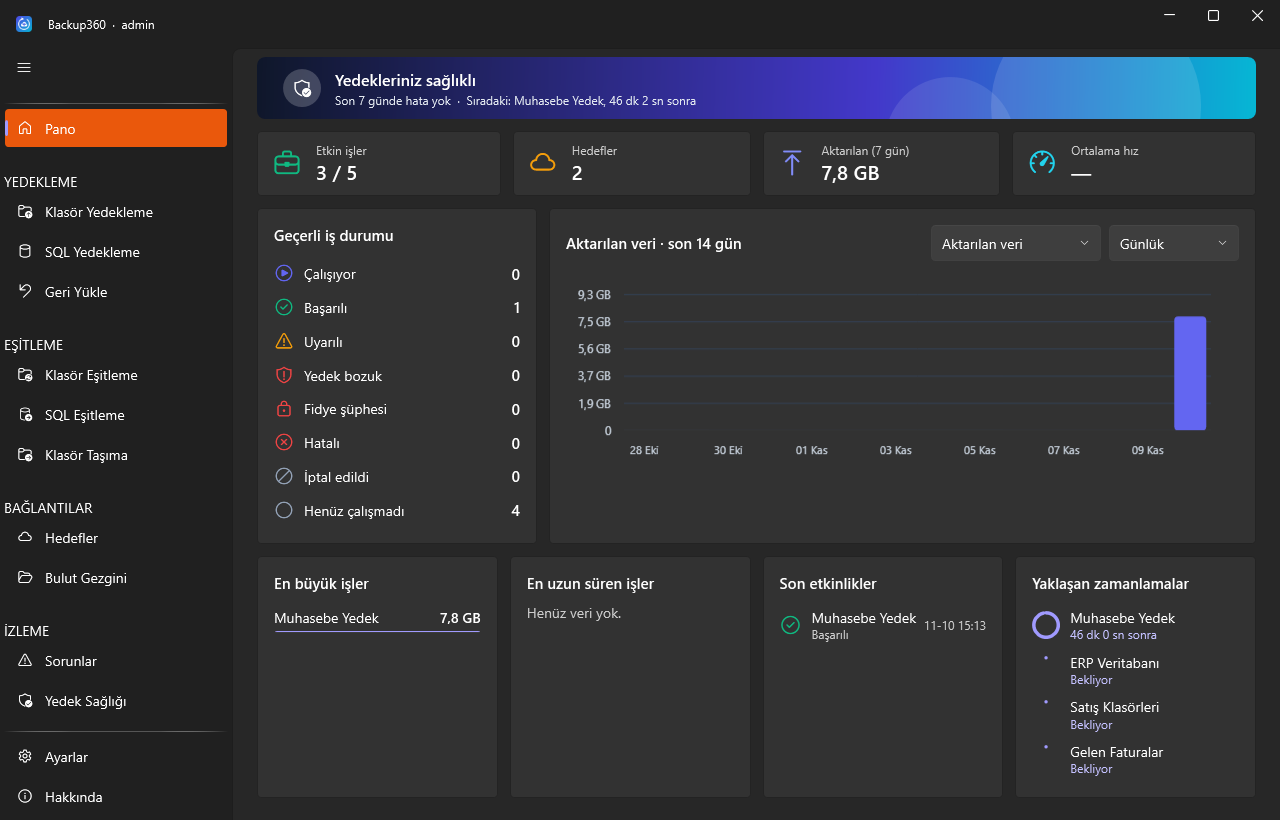
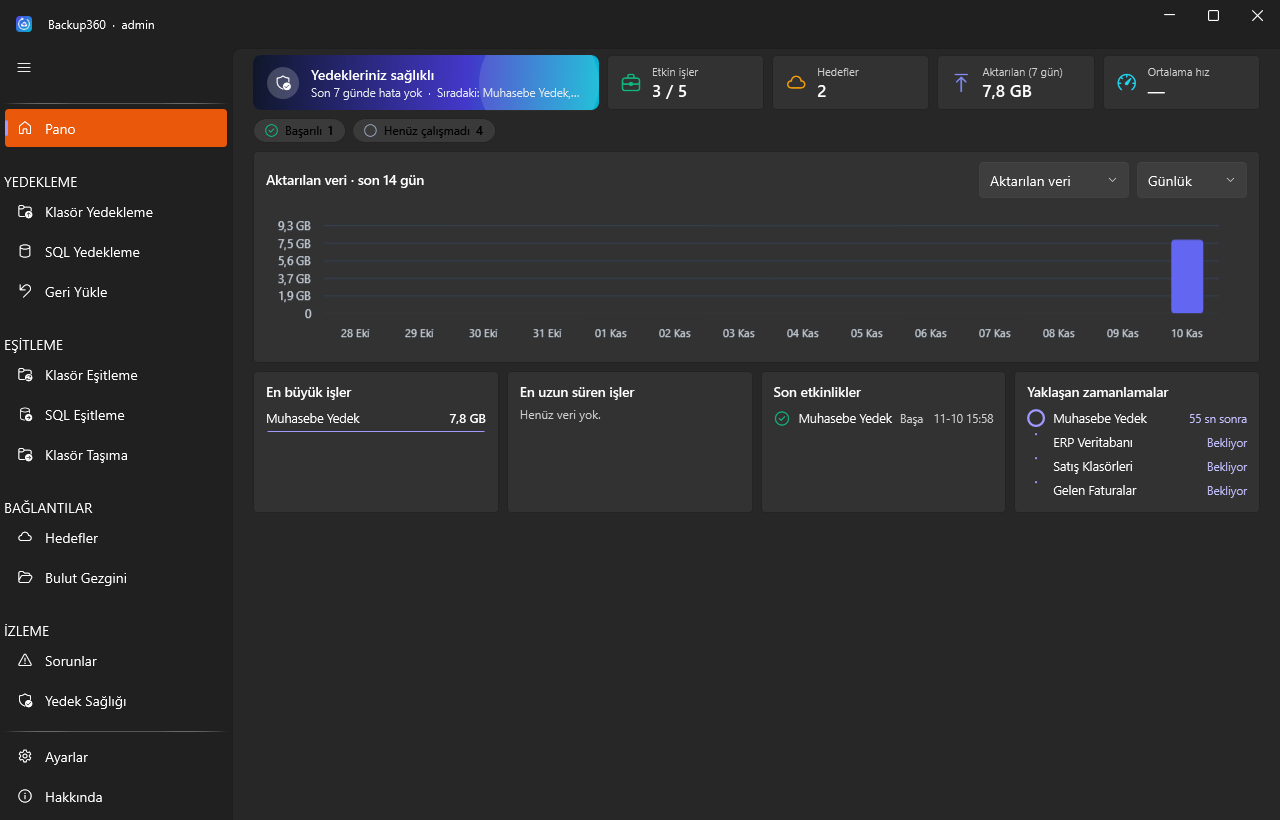
Pano yeniden düzenlendi: tek satır üst şerit, durum etiketleri, sıkı düzen

diff --git a/src/Backup360/UI/DashboardPage.xaml b/src/Backup360/UI/DashboardPage.xaml
@@ -5,202 +5,192 @@
       xmlns:lvc="clr-namespace:LiveChartsCore.SkiaSharpView.WPF;assembly=LiveChartsCore.SkiaSharpView.WPF">
     <Page.Resources>
         <DataTemplate x:Key="TopRow">
-            <StackPanel Margin="0,5">
+            <StackPanel Margin="0,3">
                 <Grid>
-                    <TextBlock Text="{Binding Name}" TextTrimming="CharacterEllipsis" Margin="0,0,70,0" />
-                    <TextBlock Text="{Binding Value}" FontWeight="SemiBold" HorizontalAlignment="Right" />
+                    <TextBlock Text="{Binding Name}" FontSize="12.5" TextTrimming="CharacterEllipsis" Margin="0,0,70,0" />
+                    <TextBlock Text="{Binding Value}" FontSize="12.5" FontWeight="SemiBold" HorizontalAlignment="Right" />
                 </Grid>
                 <ProgressBar Height="3" Maximum="100" Value="{Binding Ratio, Mode=OneWay}" Margin="0,4,0,0" />
             </StackPanel>
         </DataTemplate>
     </Page.Resources>
-    <StackPanel Margin="24,8,24,16">
-        <Border x:Name="HeroBanner" CornerRadius="8" Height="62" ClipToBounds="True">
-            <Border.Background>
-                <LinearGradientBrush StartPoint="0,0" EndPoint="1,0.4">
-                    <GradientStop Color="#0F172A" Offset="0" />
-                    <GradientStop Color="#4338CA" Offset="0.62" />
-                    <GradientStop Color="#06B6D4" Offset="1" />
-                </LinearGradientBrush>
-            </Border.Background>
-            <Grid>
-                <Canvas HorizontalAlignment="Right" Width="420">
-                    <Ellipse Width="210" Height="210" Fill="#1FFFFFFF" Canvas.Left="150" Canvas.Top="-70">
-                        <Ellipse.RenderTransform>
-                            <TranslateTransform />
-                        </Ellipse.RenderTransform>
-                        <Ellipse.Triggers>
-                            <EventTrigger RoutedEvent="Loaded">
-                                <BeginStoryboard>
-                                    <Storyboard RepeatBehavior="Forever" AutoReverse="True">
-                                        <DoubleAnimation Storyboard.TargetProperty="(UIElement.RenderTransform).(TranslateTransform.X)" From="-50" To="60" Duration="0:0:7" />
-                                        <DoubleAnimation Storyboard.TargetProperty="(UIElement.RenderTransform).(TranslateTransform.Y)" From="-10" To="24" Duration="0:0:5" />
-                                    </Storyboard>
-                                </BeginStoryboard>
-                            </EventTrigger>
-                        </Ellipse.Triggers>
-                    </Ellipse>
-                    <Ellipse Width="130" Height="130" Fill="#1AFFFFFF" Canvas.Left="40" Canvas.Top="20">
-                        <Ellipse.RenderTransform>
-                            <TranslateTransform />
-                        </Ellipse.RenderTransform>
-                        <Ellipse.Triggers>
-                            <EventTrigger RoutedEvent="Loaded">
-                                <BeginStoryboard>
-                                    <Storyboard RepeatBehavior="Forever" AutoReverse="True">
-                                        <DoubleAnimation Storyboard.TargetProperty="(UIElement.RenderTransform).(TranslateTransform.X)" From="40" To="-40" Duration="0:0:9" />
-                                    </Storyboard>
-                                </BeginStoryboard>
-                            </EventTrigger>
-                        </Ellipse.Triggers>
-                    </Ellipse>
-                </Canvas>
-                <StackPanel Orientation="Horizontal" VerticalAlignment="Center" Margin="26,0">
-                    <Grid Width="38" Height="38" Margin="0,0,14,0">
-                        <Ellipse Fill="#33FFFFFF" />
-                        <ui:SymbolIcon x:Name="HeroIcon" Symbol="ShieldCheckmark24" FontSize="20" Foreground="White" HorizontalAlignment="Center" VerticalAlignment="Center" />
-                    </Grid>
-                    <StackPanel VerticalAlignment="Center">
-                        <TextBlock x:Name="HeroTitle" Text="Hoş geldiniz" FontSize="16" FontWeight="SemiBold" Foreground="White" />
-                        <TextBlock x:Name="HeroSub" Foreground="#E2E8F0" FontSize="12" Margin="0,2,0,0" />
-                    </StackPanel>
-                </StackPanel>
-            </Grid>
-        </Border>
-
-        <UniformGrid Columns="4" Margin="0,12,0,0">
-            <ui:Card Margin="0,0,6,0" Padding="14,10">
-                <StackPanel Orientation="Horizontal">
-                    <ui:SymbolIcon Symbol="Briefcase24" FontSize="30" Foreground="#10B981" Margin="0,0,14,0" />
-                    <StackPanel><TextBlock Text="Etkin işler" Style="{StaticResource Muted}" FontSize="12" /><TextBlock x:Name="StatOk" Text="—" FontSize="20" FontWeight="SemiBold" /></StackPanel>
-                </StackPanel>
-            </ui:Card>
-            <ui:Card Margin="6,0" Padding="14,10">
-                <StackPanel Orientation="Horizontal">
-                    <ui:SymbolIcon Symbol="Cloud24" FontSize="30" Foreground="#F59E0B" Margin="0,0,14,0" />
-                    <StackPanel><TextBlock Text="Hedefler" Style="{StaticResource Muted}" FontSize="12" /><TextBlock x:Name="StatBad" Text="—" FontSize="20" FontWeight="SemiBold" /></StackPanel>
-                </StackPanel>
-            </ui:Card>
-            <ui:Card Margin="6,0" Padding="14,10">
-                <StackPanel Orientation="Horizontal">
-                    <ui:SymbolIcon Symbol="ArrowUpload24" FontSize="30" Foreground="#818CF8" Margin="0,0,14,0" />
-                    <StackPanel><TextBlock Text="Aktarılan (7 gün)" Style="{StaticResource Muted}" FontSize="12" /><TextBlock x:Name="StatSent" Text="—" FontSize="20" FontWeight="SemiBold" /></StackPanel>
-                </StackPanel>
-            </ui:Card>
-            <ui:Card Margin="6,0,0,0" Padding="14,10">
-                <StackPanel Orientation="Horizontal">
-                    <ui:SymbolIcon Symbol="TopSpeed24" FontSize="30" Foreground="#22D3EE" Margin="0,0,14,0" />
-                    <StackPanel><TextBlock Text="Ortalama hız" Style="{StaticResource Muted}" FontSize="12" /><TextBlock x:Name="StatSpeed" Text="—" FontSize="20" FontWeight="SemiBold" /></StackPanel>
-                </StackPanel>
-            </ui:Card>
-        </UniformGrid>
-
-        <ui:InfoBar x:Name="ProblemBar" IsOpen="False" IsClosable="False" Severity="Warning" Margin="0,10,0,0" />
-        <TextBlock x:Name="LiveTitle" Text="Canlı aktarımlar" Style="{StaticResource Section}" Visibility="Collapsed" Margin="0,10,0,6" />
-        <UniformGrid x:Name="LivePanel" Columns="1" Margin="0,0,-8,0" />
-
-        <Grid Margin="0,12,0,0">
+    <StackPanel Margin="20,6,20,12">
+        <!-- Üst şerit: genel durum ve dört gösterge tek satırda -->
+        <Grid>
             <Grid.ColumnDefinitions>
-                <ColumnDefinition Width="280" />
-                <ColumnDefinition Width="12" />
-                <ColumnDefinition Width="*" />
+                <ColumnDefinition Width="2.2*" /><ColumnDefinition Width="8" /><ColumnDefinition Width="*" /><ColumnDefinition Width="8" /><ColumnDefinition Width="*" /><ColumnDefinition Width="8" /><ColumnDefinition Width="*" /><ColumnDefinition Width="8" /><ColumnDefinition Width="*" />
             </Grid.ColumnDefinitions>
-            <ui:Card Padding="16" VerticalAlignment="Stretch" VerticalContentAlignment="Top">
-                <StackPanel>
-                    <TextBlock Text="Geçerli iş durumu" FontSize="15" FontWeight="SemiBold" Margin="0,0,0,12" />
-                    <ItemsControl x:Name="StatusList">
-                        <ItemsControl.ItemTemplate>
-                            <DataTemplate>
-                                <Grid Margin="0,6">
-                                    <StackPanel Orientation="Horizontal">
-                                        <ui:SymbolIcon Symbol="{Binding Icon}" Foreground="{Binding Brush}" FontSize="20" Margin="0,0,10,0" />
-                                        <TextBlock Text="{Binding Label}" VerticalAlignment="Center" />
-                                    </StackPanel>
-                                    <TextBlock Text="{Binding Count}" FontWeight="SemiBold" FontSize="15" HorizontalAlignment="Right" VerticalAlignment="Center" />
-                                </Grid>
-                            </DataTemplate>
-                        </ItemsControl.ItemTemplate>
-                    </ItemsControl>
-                </StackPanel>
-            </ui:Card>
-            <ui:Card Grid.Column="2" Padding="16" VerticalAlignment="Stretch" VerticalContentAlignment="Top">
-                <StackPanel>
-                    <Grid>
-                        <TextBlock x:Name="ChartTitle" FontSize="15" FontWeight="SemiBold" VerticalAlignment="Center" />
-                        <StackPanel Orientation="Horizontal" HorizontalAlignment="Right">
-                            <ComboBox x:Name="MetricBox" Width="170" Margin="0,0,8,0" SelectionChanged="Chart_Changed">
-                                <ComboBoxItem Content="Aktarılan veri" IsSelected="True" />
-                                <ComboBoxItem Content="Çalışma sayısı" />
-                            </ComboBox>
-                            <ComboBox x:Name="RangeBox" Width="130" SelectionChanged="Chart_Changed">
-                                <ComboBoxItem Content="Günlük" IsSelected="True" />
-                                <ComboBoxItem Content="Haftalık" />
-                                <ComboBoxItem Content="Aylık" />
-                            </ComboBox>
+            <Border x:Name="HeroBanner" CornerRadius="8" ClipToBounds="True" MinHeight="54">
+                <Border.Background>
+                    <LinearGradientBrush StartPoint="0,0" EndPoint="1,0.4">
+                        <GradientStop Color="#0F172A" Offset="0" />
+                        <GradientStop Color="#4338CA" Offset="0.62" />
+                        <GradientStop Color="#06B6D4" Offset="1" />
+                    </LinearGradientBrush>
+                </Border.Background>
+                <Grid>
+                    <Ellipse Width="120" Height="120" Fill="#1FFFFFFF" HorizontalAlignment="Right" VerticalAlignment="Center" Margin="0,-40,-20,-40">
+                        <Ellipse.RenderTransform>
+                            <TranslateTransform />
+                        </Ellipse.RenderTransform>
+                        <Ellipse.Triggers>
+                            <EventTrigger RoutedEvent="Loaded">
+                                <BeginStoryboard>
+                                    <Storyboard RepeatBehavior="Forever" AutoReverse="True">
+                                        <DoubleAnimation Storyboard.TargetProperty="(UIElement.RenderTransform).(TranslateTransform.X)" From="-60" To="20" Duration="0:0:7" />
+                                    </Storyboard>
+                                </BeginStoryboard>
+                            </EventTrigger>
+                        </Ellipse.Triggers>
+                    </Ellipse>
+                    <Grid Margin="14,8" VerticalAlignment="Center">
+                        <Grid.ColumnDefinitions><ColumnDefinition Width="Auto" /><ColumnDefinition Width="*" /></Grid.ColumnDefinitions>
+                        <Grid Width="32" Height="32" Margin="0,0,12,0">
+                            <Ellipse Fill="#33FFFFFF" />
+                            <ui:SymbolIcon x:Name="HeroIcon" Symbol="ShieldCheckmark24" FontSize="17" Foreground="White" HorizontalAlignment="Center" VerticalAlignment="Center" />
+                        </Grid>
+                        <StackPanel Grid.Column="1" VerticalAlignment="Center">
+                            <TextBlock x:Name="HeroTitle" Text="Hoş geldiniz" FontSize="14" FontWeight="SemiBold" Foreground="White" TextTrimming="CharacterEllipsis" />
+                            <TextBlock x:Name="HeroSub" Foreground="#E2E8F0" FontSize="11.5" Margin="0,1,0,0" TextTrimming="CharacterEllipsis" ToolTip="{Binding Text, RelativeSource={RelativeSource Self}}" />
                         </StackPanel>
                     </Grid>
-                    <lvc:CartesianChart x:Name="Chart" Background="Transparent" Height="200" Margin="0,8,0,0" />
+                </Grid>
+            </Border>
+            <ui:Card Grid.Column="2" Padding="12,8" VerticalAlignment="Stretch">
+                <StackPanel Orientation="Horizontal" VerticalAlignment="Center">
+                    <ui:SymbolIcon Symbol="Briefcase24" FontSize="22" Foreground="#10B981" Margin="0,0,10,0" />
+                    <StackPanel>
+                        <TextBlock Text="Etkin işler" Style="{StaticResource Muted}" FontSize="11" />
+                        <TextBlock x:Name="StatOk" Text="—" FontSize="17" FontWeight="SemiBold" />
+                    </StackPanel>
+                </StackPanel>
+            </ui:Card>
+            <ui:Card Grid.Column="4" Padding="12,8" VerticalAlignment="Stretch">
+                <StackPanel Orientation="Horizontal" VerticalAlignment="Center">
+                    <ui:SymbolIcon Symbol="Cloud24" FontSize="22" Foreground="#F59E0B" Margin="0,0,10,0" />
+                    <StackPanel>
+                        <TextBlock Text="Hedefler" Style="{StaticResource Muted}" FontSize="11" />
+                        <TextBlock x:Name="StatBad" Text="—" FontSize="17" FontWeight="SemiBold" />
+                    </StackPanel>
+                </StackPanel>
+            </ui:Card>
+            <ui:Card Grid.Column="6" Padding="12,8" VerticalAlignment="Stretch">
+                <StackPanel Orientation="Horizontal" VerticalAlignment="Center">
+                    <ui:SymbolIcon Symbol="ArrowUpload24" FontSize="22" Foreground="#818CF8" Margin="0,0,10,0" />
+                    <StackPanel>
+                        <TextBlock Text="Aktarılan (7 gün)" Style="{StaticResource Muted}" FontSize="11" />
+                        <TextBlock x:Name="StatSent" Text="—" FontSize="17" FontWeight="SemiBold" />
+                    </StackPanel>
+                </StackPanel>
+            </ui:Card>
+            <ui:Card Grid.Column="8" Padding="12,8" VerticalAlignment="Stretch">
+                <StackPanel Orientation="Horizontal" VerticalAlignment="Center">
+                    <ui:SymbolIcon Symbol="TopSpeed24" FontSize="22" Foreground="#22D3EE" Margin="0,0,10,0" />
+                    <StackPanel>
+                        <TextBlock Text="Ortalama hız" Style="{StaticResource Muted}" FontSize="11" />
+                        <TextBlock x:Name="StatSpeed" Text="—" FontSize="17" FontWeight="SemiBold" />
+                    </StackPanel>
                 </StackPanel>
             </ui:Card>
         </Grid>
 
-        <Grid Margin="0,12,0,0">
+        <!-- İş durumu: yalnızca sayısı sıfırdan büyük olanlar, tek satır -->
+        <ItemsControl x:Name="StatusList" Margin="0,8,0,0">
+            <ItemsControl.ItemsPanel>
+                <ItemsPanelTemplate><WrapPanel /></ItemsPanelTemplate>
+            </ItemsControl.ItemsPanel>
+            <ItemsControl.ItemTemplate>
+                <DataTemplate>
+                    <Border CornerRadius="13" Padding="10,3,12,3" Margin="0,0,6,4" Background="{DynamicResource ControlFillColorSecondaryBrush}" BorderBrush="{DynamicResource CardStrokeColorDefaultBrush}" BorderThickness="1">
+                        <StackPanel Orientation="Horizontal">
+                            <ui:SymbolIcon Symbol="{Binding Icon}" Foreground="{Binding Brush}" FontSize="15" Margin="0,0,6,0" />
+                            <TextBlock Text="{Binding Label}" FontSize="12" VerticalAlignment="Center" />
+                            <TextBlock Text="{Binding Count}" FontSize="12" FontWeight="SemiBold" Margin="6,0,0,0" VerticalAlignment="Center" />
+                        </StackPanel>
+                    </Border>
+                </DataTemplate>
+            </ItemsControl.ItemTemplate>
+        </ItemsControl>
+
+        <ui:InfoBar x:Name="ProblemBar" IsOpen="False" IsClosable="False" Severity="Warning" Margin="0,4,0,0" />
+        <TextBlock x:Name="LiveTitle" Text="Canlı aktarımlar" FontSize="13.5" FontWeight="SemiBold" Visibility="Collapsed" Margin="0,8,0,6" />
+        <UniformGrid x:Name="LivePanel" Columns="1" Margin="0,0,-8,0" />
+
+        <ui:Card Padding="12,10" Margin="0,4,0,0" VerticalContentAlignment="Top">
+            <StackPanel>
+                <Grid>
+                    <TextBlock x:Name="ChartTitle" FontSize="13.5" FontWeight="SemiBold" VerticalAlignment="Center" />
+                    <StackPanel Orientation="Horizontal" HorizontalAlignment="Right">
+                        <ComboBox x:Name="MetricBox" Width="150" Margin="0,0,8,0" SelectionChanged="Chart_Changed">
+                            <ComboBoxItem Content="Aktarılan veri" IsSelected="True" />
+                            <ComboBoxItem Content="Çalışma sayısı" />
+                        </ComboBox>
+                        <ComboBox x:Name="RangeBox" Width="110" SelectionChanged="Chart_Changed">
+                            <ComboBoxItem Content="Günlük" IsSelected="True" />
+                            <ComboBoxItem Content="Haftalık" />
+                            <ComboBoxItem Content="Aylık" />
+                        </ComboBox>
+                    </StackPanel>
+                </Grid>
+                <lvc:CartesianChart x:Name="Chart" Background="Transparent" Height="150" Margin="0,4,0,0" />
+            </StackPanel>
+        </ui:Card>
+
+        <Grid Margin="0,8,0,0">
             <Grid.ColumnDefinitions>
-                <ColumnDefinition /><ColumnDefinition Width="12" /><ColumnDefinition /><ColumnDefinition Width="12" /><ColumnDefinition /><ColumnDefinition Width="12" /><ColumnDefinition />
+                <ColumnDefinition /><ColumnDefinition Width="8" /><ColumnDefinition /><ColumnDefinition Width="8" /><ColumnDefinition /><ColumnDefinition Width="8" /><ColumnDefinition />
             </Grid.ColumnDefinitions>
-            <ui:Card Padding="16" VerticalAlignment="Stretch" VerticalContentAlignment="Top">
+            <ui:Card Grid.Column="0" Padding="12,10" VerticalAlignment="Stretch" VerticalContentAlignment="Top">
                 <StackPanel>
-                    <TextBlock Text="En büyük işler" FontSize="15" FontWeight="SemiBold" Margin="0,0,0,10" />
-                    <TextBlock x:Name="BiggestEmpty" Text="Henüz veri yok." Style="{StaticResource Muted}" />
+                    <TextBlock Text="En büyük işler" FontSize="13.5" FontWeight="SemiBold" Margin="0,0,0,6" />
+                    <TextBlock x:Name="BiggestEmpty" Text="Henüz veri yok." Style="{StaticResource Muted}" FontSize="12" />
                     <ItemsControl x:Name="Biggest" ItemTemplate="{StaticResource TopRow}" />
                 </StackPanel>
             </ui:Card>
-            <ui:Card Grid.Column="2" Padding="16" VerticalAlignment="Stretch" VerticalContentAlignment="Top">
+            <ui:Card Grid.Column="2" Padding="12,10" VerticalAlignment="Stretch" VerticalContentAlignment="Top">
                 <StackPanel>
-                    <TextBlock Text="En uzun süren işler" FontSize="15" FontWeight="SemiBold" Margin="0,0,0,10" />
-                    <TextBlock x:Name="LongestEmpty" Text="Henüz veri yok." Style="{StaticResource Muted}" />
+                    <TextBlock Text="En uzun süren işler" FontSize="13.5" FontWeight="SemiBold" Margin="0,0,0,6" />
+                    <TextBlock x:Name="LongestEmpty" Text="Henüz veri yok." Style="{StaticResource Muted}" FontSize="12" />
                     <ItemsControl x:Name="Longest" ItemTemplate="{StaticResource TopRow}" />
                 </StackPanel>
             </ui:Card>
-            <ui:Card Grid.Column="4" Padding="16" VerticalAlignment="Stretch" VerticalContentAlignment="Top">
+            <ui:Card Grid.Column="4" Padding="12,10" VerticalAlignment="Stretch" VerticalContentAlignment="Top">
                 <StackPanel>
-                    <TextBlock Text="Son etkinlikler" FontSize="15" FontWeight="SemiBold" Margin="0,0,0,10" />
-                    <TextBlock x:Name="FeedEmpty" Text="Henüz çalışma yok." Style="{StaticResource Muted}" />
+                    <TextBlock Text="Son etkinlikler" FontSize="13.5" FontWeight="SemiBold" Margin="0,0,0,6" />
+                    <TextBlock x:Name="FeedEmpty" Text="Henüz çalışma yok." Style="{StaticResource Muted}" FontSize="12" />
                     <ItemsControl x:Name="Feed">
                         <ItemsControl.ItemTemplate>
                             <DataTemplate>
-                                <Grid Margin="0,5">
+                                <Grid Margin="0,3">
                                     <Grid.ColumnDefinitions>
                                         <ColumnDefinition Width="Auto" />
                                         <ColumnDefinition Width="*" />
                                         <ColumnDefinition Width="Auto" />
                                     </Grid.ColumnDefinitions>
-                                    <ui:SymbolIcon Symbol="{Binding Icon}" Foreground="{Binding Brush}" FontSize="22" Margin="0,0,10,0" />
-                                    <StackPanel Grid.Column="1">
-                                        <TextBlock Text="{Binding Name}" TextTrimming="CharacterEllipsis" />
-                                        <TextBlock Text="{Binding Label}" FontSize="12" Style="{StaticResource Muted}" />
+                                    <ui:SymbolIcon Symbol="{Binding Icon}" Foreground="{Binding Brush}" FontSize="17" Margin="0,0,8,0" />
+                                    <StackPanel Grid.Column="1" Orientation="Horizontal" ClipToBounds="True">
+                                        <TextBlock Text="{Binding Name}" FontSize="12.5" TextTrimming="CharacterEllipsis" />
+                                        <TextBlock Text="{Binding Label}" FontSize="11.5" Style="{StaticResource Muted}" Margin="8,0,0,0" VerticalAlignment="Center" />
                                     </StackPanel>
-                                    <TextBlock Grid.Column="2" Text="{Binding When}" FontSize="12" Style="{StaticResource Muted}" VerticalAlignment="Center" />
+                                    <TextBlock Grid.Column="2" Text="{Binding When}" FontSize="11.5" Style="{StaticResource Muted}" Margin="10,0,0,0" VerticalAlignment="Center" />
                                 </Grid>
                             </DataTemplate>
                         </ItemsControl.ItemTemplate>
                     </ItemsControl>
                 </StackPanel>
             </ui:Card>
-            <ui:Card Grid.Column="6" Padding="16" VerticalAlignment="Stretch" VerticalContentAlignment="Top">
+            <ui:Card Grid.Column="6" Padding="12,10" VerticalAlignment="Stretch" VerticalContentAlignment="Top">
                 <StackPanel>
-                    <TextBlock Text="Yaklaşan zamanlamalar" FontSize="15" FontWeight="SemiBold" Margin="0,0,0,10" />
-                    <TextBlock x:Name="UpcomingEmpty" Text="Zamanlanmış iş yok." Style="{StaticResource Muted}" />
+                    <TextBlock Text="Yaklaşan zamanlamalar" FontSize="13.5" FontWeight="SemiBold" Margin="0,0,0,6" />
+                    <TextBlock x:Name="UpcomingEmpty" Text="Zamanlanmış iş yok." Style="{StaticResource Muted}" FontSize="12" />
                     <ItemsControl x:Name="Upcoming">
                         <ItemsControl.ItemTemplate>
                             <DataTemplate>
-                                <Grid Margin="0,5">
-                                    <Grid.ColumnDefinitions><ColumnDefinition Width="Auto" /><ColumnDefinition Width="*" /></Grid.ColumnDefinitions>
-                                    <ui:ProgressRing IsIndeterminate="False" Progress="{Binding Percent}" Width="28" Height="28" Margin="0,0,10,0" />
-                                    <StackPanel Grid.Column="1">
-                                        <TextBlock Text="{Binding Name}" TextTrimming="CharacterEllipsis" />
-                                        <TextBlock Text="{Binding Remaining}" FontSize="12" Foreground="{DynamicResource AccentTextFillColorPrimaryBrush}" />
-                                    </StackPanel>
+                                <Grid Margin="0,3">
+                                    <Grid.ColumnDefinitions><ColumnDefinition Width="Auto" /><ColumnDefinition Width="*" /><ColumnDefinition Width="Auto" /></Grid.ColumnDefinitions>
+                                    <ui:ProgressRing IsIndeterminate="False" Progress="{Binding Percent}" Width="18" Height="18" Margin="0,0,8,0" />
+                                    <TextBlock Grid.Column="1" Text="{Binding Name}" FontSize="12.5" TextTrimming="CharacterEllipsis" VerticalAlignment="Center" />
+                                    <TextBlock Grid.Column="2" Text="{Binding Remaining}" FontSize="11.5" Margin="8,0,0,0" VerticalAlignment="Center" Foreground="{DynamicResource AccentTextFillColorPrimaryBrush}" />
                                 </Grid>
                             </DataTemplate>
                         </ItemsControl.ItemTemplate>
@@ -208,6 +198,5 @@
                 </StackPanel>
             </ui:Card>
         </Grid>
-
     </StackPanel>
 </Page>

diff --git a/src/Backup360/UI/DashboardPage.xaml.cs b/src/Backup360/UI/DashboardPage.xaml.cs
@@ -163,7 +163,7 @@ public partial class DashboardPage
             new StatusRow(WUI.SymbolRegular.DismissCircle24, Fmt.Danger, "Hatalı", Of("failed")),
             new StatusRow(WUI.SymbolRegular.Prohibited24, Fmt.Neutral, "İptal edildi", Of("canceled")),
             new StatusRow(WUI.SymbolRegular.Circle24, Fmt.Neutral, "Henüz çalışmadı", Of("none")),
-        };
+        }.Where(row => row.Count > 0).ToList();
 
         var totals = RunStats.PerJob(all);
         var maxBytes = Math.Max(1, totals.Select(x => x.Bytes).DefaultIfEmpty(1).Max());

diff --git a/CHANGELOG.md b/CHANGELOG.md
@@ -1,3 +1,8 @@
+## 2026.11.10.1600
+
+### Değişti
+- Pano yeniden düzenlendi: genel durum ve göstergeler tek satırda, iş durumu yalnızca dolu olanları gösteren etiketler halinde, grafik ve listeler daha sıkı
+
 ## 2026.11.10.1516
 
 ### Değişti: hedeflere doğrudan bağlantı
